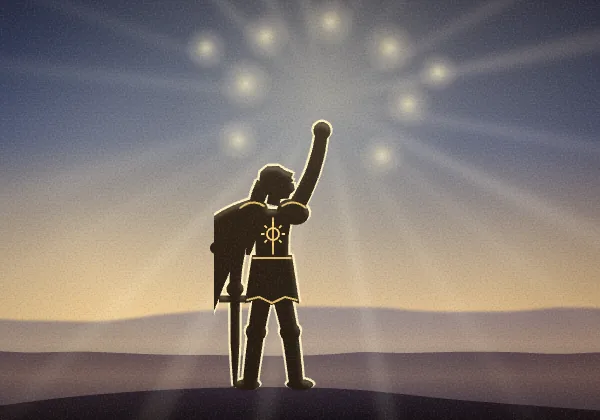
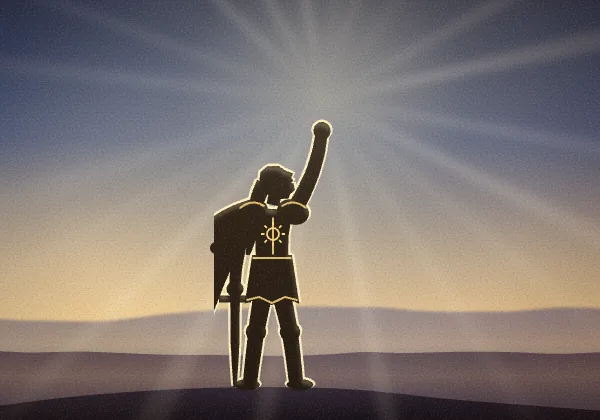
Puppets, lane A batch 27 (second try): Aurelia, the Lightkeeper

diff --git a/bakeoff/moves/champion-radiant.js b/bakeoff/moves/champion-radiant.js
@@ -77,10 +77,13 @@ export function build(k) {
   const lerp = (A, B) => (f) => [A[0] + (B[0] - A[0]) * f, A[1] + (B[1] - A[1]) * f];
 
   // ── gather: Spirits peel off from round the lantern and stream into it
-  S.spirits.slice(0, 7).forEach((P, i) => {
-    const t0 = 150 + i * 95, t1 = 860 + i * 20, sz = [17, 14, 16, 18, 15, 14, 13][i];
+  S.spirits.forEach((P, i) => {
+    const t0 = 150 + i * 85, t1 = 860 + i * 18, sz = [17, 14, 16, 18, 15, 14, 13, 11, 10][i];
+    // the drawn Spirit leaves its place the moment its copy takes off, and is back in it as the move ends
+    const orig = k.part('spirit' + i), tb = 3000 + i * 40;
+    k.act(orig, [[0, { opacity: 1 }], [t0, { opacity: 1 }], [t0 + 1, { opacity: 0 }], [tb, { opacity: 0 }, eio], [3500, { opacity: 1 }]]);
     const swirl = (f) => { const q = lerp(P, L(t0 + (t1 - t0) * f))(f); const b = Math.sin(f * Math.PI) * (i % 2 ? 7 : -7); return [q[0] + b * 0.6, q[1] - b * 0.4]; };
-    flight(k.picIn(spirit, P, sz, sz * 0.8), P, swirl, t0, t1, (f) => 0.9 - 0.55 * f * f, (f) => (f < 0.15 ? f / 0.15 : f > 0.8 ? (1 - f) / 0.2 : 1), (f) => f * f * (3 - 2 * f));
+    flight(k.picIn(spirit, P, sz, sz * 0.8), P, swirl, t0, t1, (f) => 0.9 - 0.55 * f * f, (f) => (f > 0.8 ? (1 - f) / 0.2 : 1), (f) => f * f * (3 - 2 * f));
     h.fly(k.picIn('mote', P, 5, 5), P, (f) => swirl(Math.max(0, f - 0.12)), t0 + 60, t1 + 30, (f) => 1 - 0.5 * f, (f) => (f < 0.1 ? f * 8 : 0.9 * (1 - f * 0.6)), 0, 0, 50, (f) => f * f * (3 - 2 * f));
   });
   // motes drawn in from all round
@@ -108,11 +111,11 @@ export function build(k) {
       const f = (t - t0) / (t1 - t0), pace = f * f * 0.5 + f * 0.5, [x, y] = bz(pace), s = (0.35 + 0.7 * Math.min(1, f * 1.6)) * (sz / 17);
       ks.push([t, { transform: `${k.T(x - E1[0], y - E1[1])} scale(${(s * flap(t)).toFixed(3)}, ${s.toFixed(3)})`, opacity: f < 0.08 ? f / 0.08 : 1 }, 'linear']);
     }
-    const lap = 1500 + i * 40, ci = 0.7 + 0.6 * ((i * 37) % 10) / 10;
+    const lap = 1150 + i * 20, ci = 0.7 + 0.6 * ((i * 37) % 10) / 10;
     for (let t = t1 + 40; t <= t1 + lap; t += 40) {
       const f = (t - t1) / lap, an = i * 0.7 + f * Math.PI * 2 * (i % 2 ? 1 : -1) * 0.9, rr = (10 + (i % 3) * 6) * (0.6 + 0.6 * f);
       const x = T[0] + Math.cos(an) * rr, y = T[1] + Math.sin(an) * rr * 0.55 - 6 - f * 20 - 4 * Math.sin(f * 9 + i), s = (sz / 17) * (1.05 - 0.2 * f) * ci * 1.1;
-      ks.push([t, { transform: `${k.T(x - E1[0], y - E1[1])} scale(${(s * flap(t)).toFixed(3)}, ${s.toFixed(3)})`, opacity: f > 0.6 ? Math.max(0, 1 - (f - 0.6) / 0.4) : 1 }, 'linear']);
+      ks.push([t, { transform: `${k.T(x - E1[0], y - E1[1])} scale(${(s * flap(t)).toFixed(3)}, ${s.toFixed(3)})`, opacity: f > 0.55 ? Math.max(0, 1 - (f - 0.55) / 0.45) : 1 }, 'linear']);
     }
     fx(k.pic(spirit, E1, sz, sz * 0.8), ks);
     // each Spirit's own small light, riding with it

diff --git a/js/art/puppets.js b/js/art/puppets.js
@@ -69,7 +69,7 @@ export const PUPPETS = {
   // the halo round it (no longer a breathing ambient glow: it rides the lantern) and the left flare of her cloak; `emit`:
   // the lantern's heart, where the Spirits leave from, `hit`: her breastplate, `shoulder`: where the arm turns, `hand`: the
   // lantern's hand, `cloak`: where the cloak's flare turns, `spirits`: where the Spirits hover round the lantern (they gather
-  // from here)
+  // from here; each is its own part, spirit0-8, which leaves its place when it gathers and returns as the move ends)
   'champion-radiant': {
     role: 'support', element: 'spirit', facing: 'right', emit: [161, 50], hit: [138, 126],
     shoulder: [148, 102], hand: [161, 65], cloak: [108, 124],
@@ -79,6 +79,15 @@ export const PUPPETS = {
       { name: 'halo', of: '[data-part=halo]', pivot: [148, 102] },
       { name: 'lantern', of: '[data-part=lantern]', pivot: [148, 102] },
       { name: 'cloak', of: 'fig:0', pivot: [108, 124], poly: [[70, 96], [107, 96], [107, 172], [70, 172]], cut: true, joint: 3 },
+      { name: 'spirit0', of: '[data-part=spirit0]', pivot: [123, 44] },
+      { name: 'spirit1', of: '[data-part=spirit1]', pivot: [133, 20] },
+      { name: 'spirit2', of: '[data-part=spirit2]', pivot: [165, 13] },
+      { name: 'spirit3', of: '[data-part=spirit3]', pivot: [195, 26] },
+      { name: 'spirit4', of: '[data-part=spirit4]', pivot: [204, 54] },
+      { name: 'spirit5', of: '[data-part=spirit5]', pivot: [191, 80] },
+      { name: 'spirit6', of: '[data-part=spirit6]', pivot: [119, 72] },
+      { name: 'spirit7', of: '[data-part=spirit7]', pivot: [103, 26] },
+      { name: 'spirit8', of: '[data-part=spirit8]', pivot: [219, 38] },
     ],
   },
 

diff --git a/js/art/scenes/champions.js b/js/art/scenes/champions.js
@@ -201,10 +201,8 @@ export const champions = {
       `<path d="${glint(lx, lb - 12, 16, 0.12)}" fill="#ffffff"/></g>`, { sd: 2.4, k: 1.6, box: [lx - 50, lb - 70, 100, 96] });
     // the spirits, gathering
     const sp = [[123, 44, 0.5], [133, 20, 0.42], [165, 13, 0.46], [195, 26, 0.5], [204, 54, 0.44], [191, 80, 0.38], [119, 72, 0.36], [103, 26, 0.34], [219, 38, 0.3]];
-    for (const [x, y, k] of sp) s.glow(x, y - 2, 6 + 15 * k, '#fff1c4', 0.7);
-    for (let g = 0; g < 3; g++) {
-      s.path(U(sp.filter((_, i) => i % 3 === g).map(([x, y, k]) => sprite(x, y, k))), '#fffcf0', `class="float" style="--t:${5 + g * 1.5}s;--d:-${g * 2}s"`);
-    }
+    // each Spirit is its own part (glow and figure): it leaves its place when it gathers into the lantern
+    sp.forEach(([x, y, k], i) => { s.add(`<g data-part="spirit${i}">`); s.glow(x, y - 2, 6 + 15 * k, '#fff1c4', 0.7); s.path(sprite(x, y, k), '#fffcf0'); s.add('</g>'); });
     s.motes({ seed: 9805, n: 18, x: [96, 220], y: [10, 110], r: [0.4, 1], fill: '#ffe39a', cls: 'float', t: [4, 8], op: [0.5, 1] });
     s.add(particles({ seed: 9806, n: 10, x: [30, 270], y: [90, 190], r: [0.5, 1.1], fill: '#fff6d8', cls: 'float', t: [5, 9], op: [0.3, 0.7] }));
     return s.svg();

diff --git a/js/art-live.js b/js/art-live.js
@@ -14,7 +14,7 @@ export const LIVE = {
   "canopy-archer": { src: 'art/live/canopy-archer.webp?v=9f2614ed', live: 'art/live/canopy-archer.json?v=5f26720a' },
   "carrion-wyrm": { src: 'art/live/carrion-wyrm.webp?v=cb17e708', live: 'art/live/carrion-wyrm.json?v=b91f7e83' },
   "champion-ember": { src: 'art/live/champion-ember.webp?v=4a81db52', live: 'art/live/champion-ember.json?v=0f6667e9' },
-  "champion-radiant": { src: 'art/live/champion-radiant.webp?v=b110e571', live: 'art/live/champion-radiant.json?v=3355ab90' },
+  "champion-radiant": { src: 'art/live/champion-radiant.webp?v=064d6543', live: 'art/live/champion-radiant.json?v=1c8e8896' },
   "champion-verdant": { src: 'art/live/champion-verdant.webp?v=519c4fa9', live: 'art/live/champion-verdant.json?v=e77e1ba7' },
   "cinderling": { src: 'art/live/cinderling.webp?v=6d89b188', live: 'art/live/cinderling.json?v=87aced68' },
   "cloud-ray": { src: 'art/live/cloud-ray.webp?v=759313be', live: 'art/live/cloud-ray.json?v=f30998a8' },
